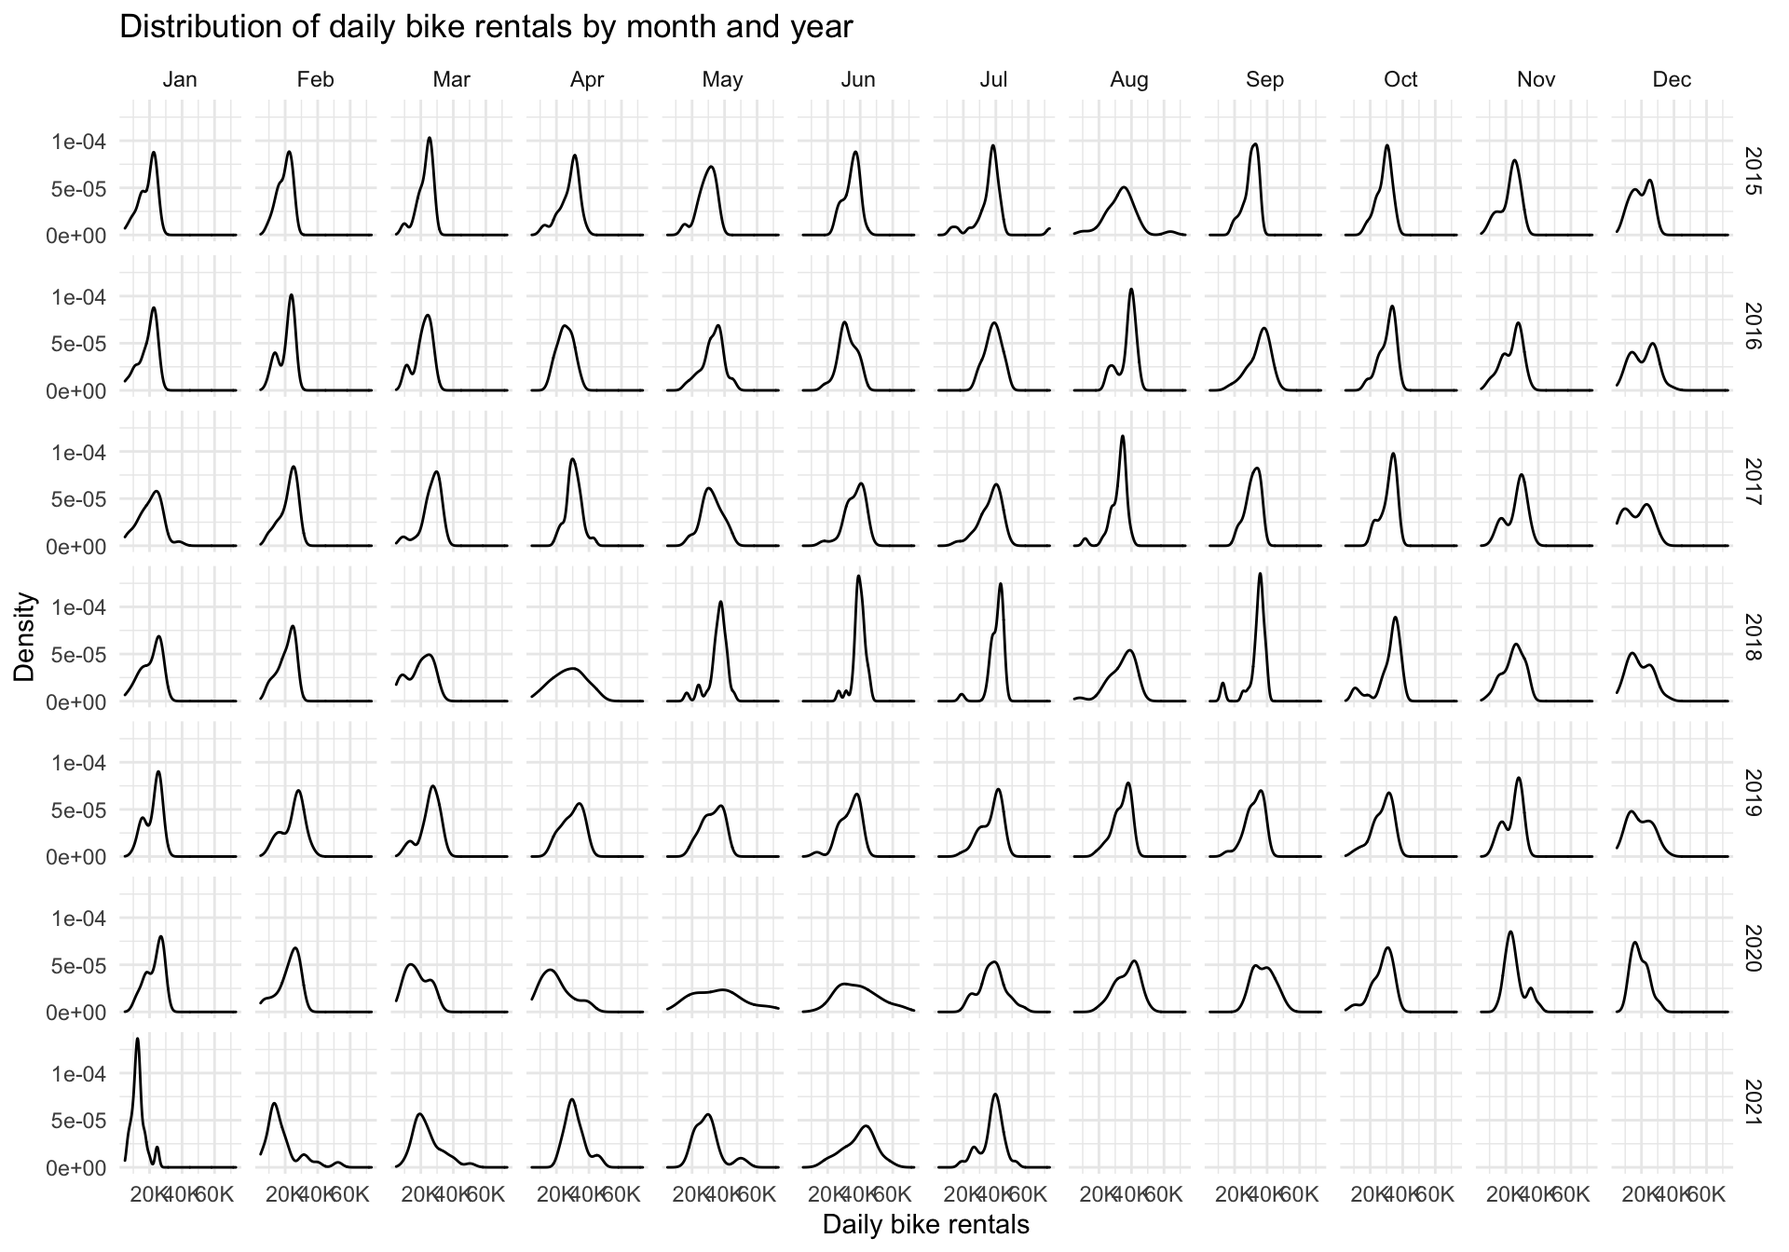
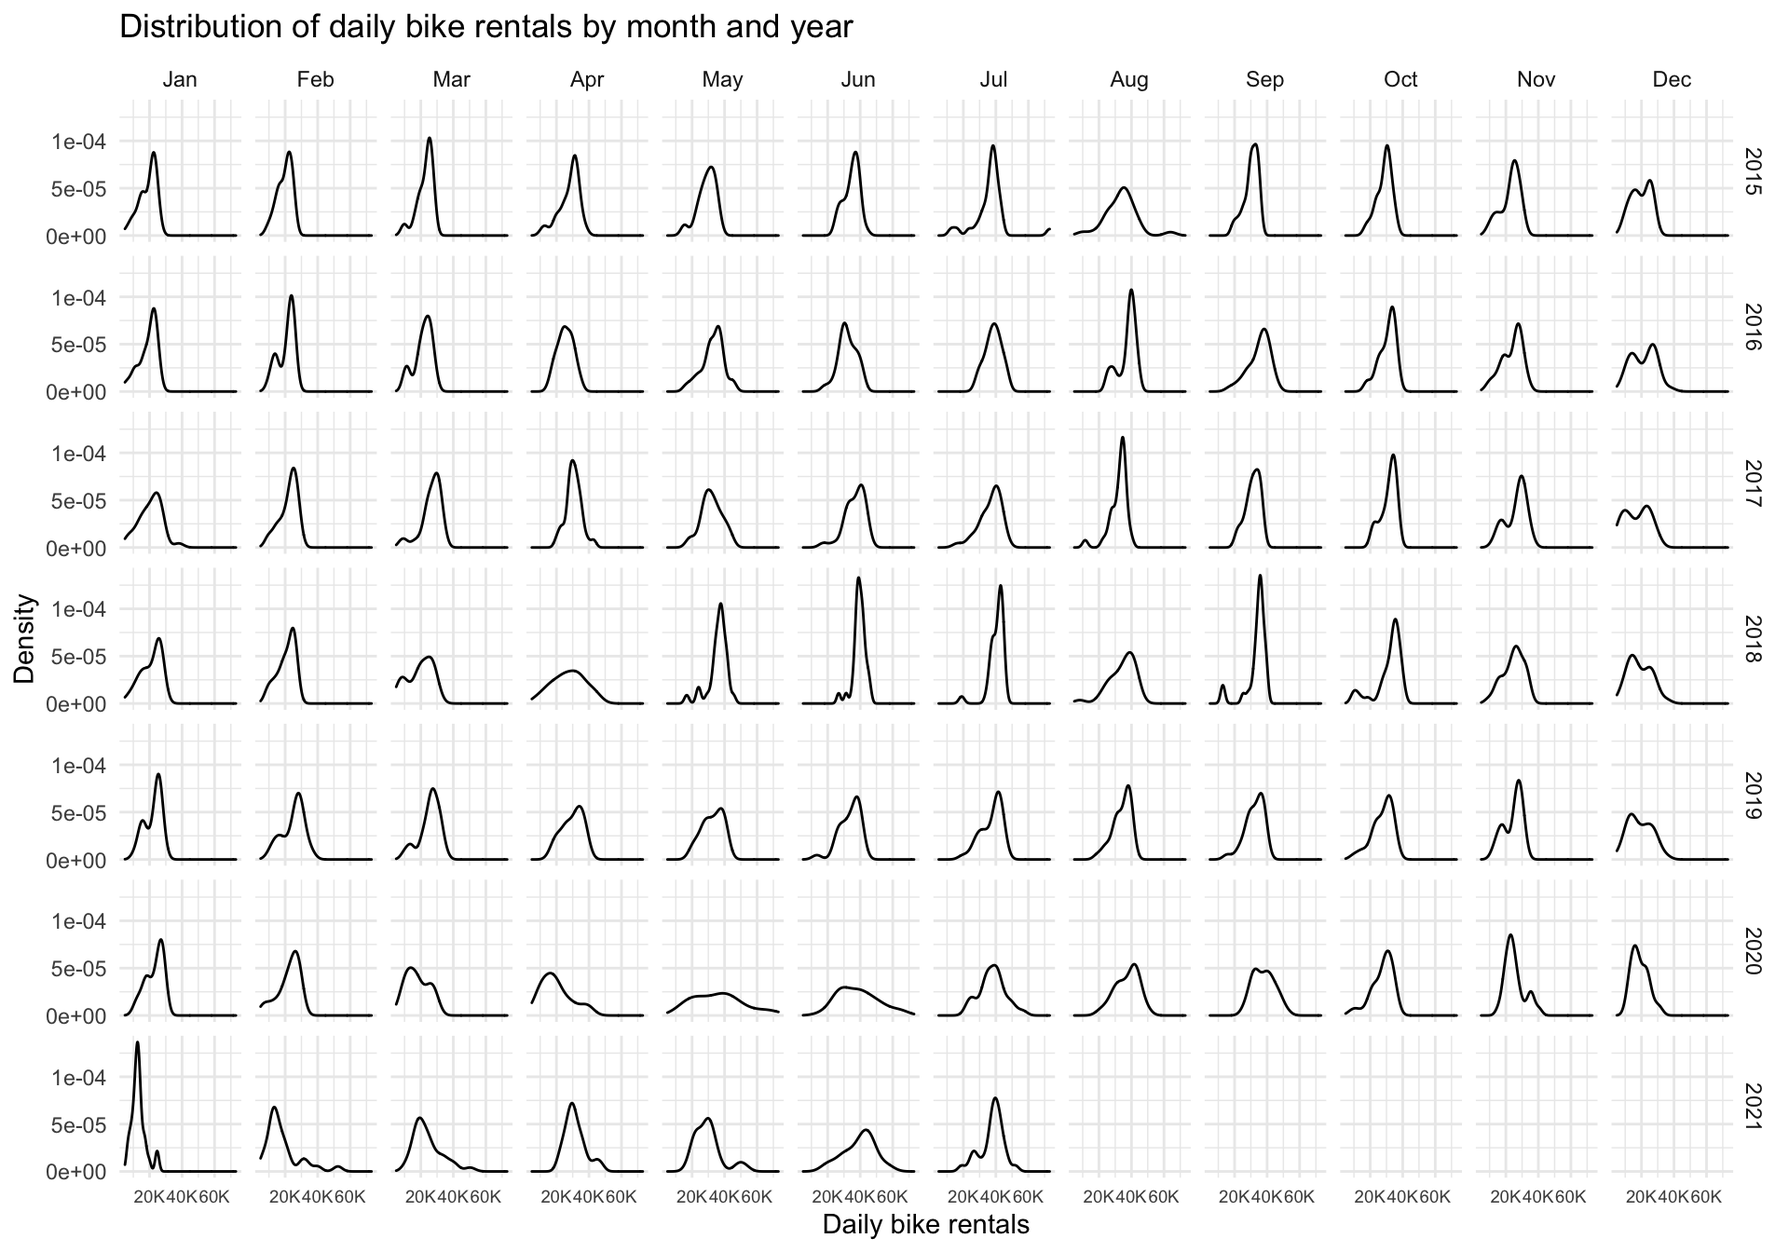
Finalizing blogs

diff --git a/content/blogs/GGplot.html b/content/blogs/GGplot.html
@@ -17,15 +17,15 @@ title: ggplot2
 <div id="introduction" class="section level1">
 <h1>Introduction</h1>
 <p>When it comes to analyzing data, <code>ggplot</code> is one of the most powerful packages. It is used for generating graphs and visualizing trends. A multitude of different graphs is readily available and easily customizable within the <code>ggplot</code> package.</p>
-<p>The <code>ggplot</code> package is part of the <code>tidyverse</code> library and is automatically included when loading <code>tidyverse</code>. However it can also separately be called using <code>library(ggplot2)</code>.</p>
-<p>In the following sections, I will provide a brief introduction to <code>ggplot</code> and the different types of graphs and customization it offers. Naturally, there are many more features it offers, but I will only provide a basic overview of its use cases. For more details, please visit <a href="https://ggplot2.tidyverse.org/index.html">ggplot2</a> </p>
+<p>The <code>ggplot</code> package is part of the <code>tidyverse</code> library and is automatically included when loading <code>tidyverse</code>. However, it can also separately be called using <code>library(ggplot2)</code>.</p>
+<p>In the following sections, I will provide a brief introduction to <code>ggplot</code> and the different types of graphs and customization it offers. Naturally, there are many more features to it, but I will only provide a basic overview of its use cases. For more details, please visit <a href="https://ggplot2.tidyverse.org/index.html">ggplot2</a>. </p>
 <div id="general-setup" class="section level2">
 <h2>General Setup</h2>
-<p>Before choosing the type of graph you want the data to be displayed in, you have to initiate <code>ggplot</code> by calling <code>ggplot()</code> and providing the so-called aesthetics, which specify values on x-axis and y-axis. </p>
-<p><strong>Note:</strong> Some charts don’t require a y-value, as they provide distributions of only one specific variable. </p>
+<p>Before choosing the type of graph you want the data to be displayed in, you have to initiate <code>ggplot</code> by calling <code>ggplot()</code> and providing the so-called aesthetics, which specify values on x-axis and y-axis. 
+<strong>Note:</strong> Some charts don’t require a y-value, as they provide distributions of only one specific variable. </p>
 <p>Aesthetics also provide the opportunity to color or size items according to specific characteristics. </p>
 <p>The initiation of <code>ggplot</code> itself doesn’t provide any output. By adding more functions we can add points, lines, etc. to the graph.</p>
-<p>The basic initiation looks the following way: <code>ggplot(data, aes(x=x-variable, y = y-variable))</code></p>
+<p>The basic initiation looks the following way: <code>ggplot(data, aes(x = x-variable, y = y-variable))</code></p>
 </div>
 <div id="scatter-plot" class="section level2">
 <h2>Scatter Plot</h2>
@@ -50,9 +50,9 @@ ggplot(data_employees, aes(x=experience, y=salary))+
   )</code></pre>
 <p><img src="/blogs/GGplot_files/figure-html/scatter_plot2%20experience%20vs.%20salary-1.png" width="768" /></p>
 <p>This looks already better, but we can tune the graphs even further by adding additional arguments and functions. 
-To be able to make better inferences, we can add a trend line by adding the function <code>geom_smooth(method=lm)</code>. The geom_smooth function usually returns a grey background in addition to the trendline which represents the confidence interval. By adding the argument <code>se=FALSE</code>, it can be turned off. 
+To be able to make better inferences, we can add a trend line by adding the function <code>geom_smooth(method=lm)</code>. The geom_smooth function usually returns a grey background in addition to the trendline which represents the confidence interval. By adding the argument <code>se=FALSE</code>, it can be turned off.<br />
 Or we could color the points according to the gender of the employee by including the argument <code>color = gender</code> in the ggplot initialization.</p>
-<p>Let’s see what it would a scatter plot would look like with a trendline and color according to gender:</p>
+<p>Let’s see what a scatter plot would look like with a trendline and color according to gender:</p>
 <pre class="r"><code>ggplot(data_employees, aes(x=experience, y=salary, color=gender))+
   #Add geom_point
   geom_point()+
@@ -84,9 +84,9 @@ Or we could color the points according to the gender of the employee by includin
 </div>
 <div id="line-chart" class="section level2">
 <h2>Line Chart</h2>
-<p>Line charts connect values in the order of x-axis values. This can be very helpful when plotting data over time, like stock prices or comparing values across month. </p>
-<p>When using line charts, it is very important to think about the <code>group</code> argument in the <code>ggplot</code> aesthetics, which requires input to a variable for which a value can only occur once. By that I mean, when mapping values across years, days or months will occur multiple times in the dataset and <code>geom_line</code> will have a hard time connecting the dots. Therefore, we need to tell <code>geom_line</code> a grouping so it connects the dots separately for each year.
-In this case, we don’t require a grouping, as every value is unique. However, we still need to specify the group variable by simply putting <code>group=1</code>, which tells <code>ggplot</code> that no grouping is required.</p>
+<p>Line charts connect values in the order of x-axis values. This can be very helpful when plotting data over time, like stock prices or comparing values across months. </p>
+<p>When using line charts, it is very important to think about the <code>group</code> argument in the <code>ggplot</code> aesthetics, which requires input to a variable for which a value can only occur once. By that I mean, when mapping values across years, days or months will occur multiple times in the dataset and <code>geom_line</code> will have a hard time connecting the dots. Therefore, we need to tell <code>geom_line</code> a grouping, so it connects the dots separately for each year.</p>
+<p>In the following example, we don’t require a grouping, as every value is unique. However, we still need to specify the group variable by simply putting <code>group=1</code>, which tells <code>ggplot</code> that no grouping is required.</p>
 <p>Let’s assume we have data for bike rentals in London and want to have a look at the average number of rentals per month between 2016 and 2019. In the following section, we will draw a line chart that will display the average rentals per month, computed by using data from 2016 to 2019.</p>
 <pre class="r"><code>#Compute expected average bike rentals in each month
 exp_bikes_per_month &lt;- bike %&gt;%
@@ -102,12 +102,12 @@ ggplot(exp_bikes_per_month, aes(x=month, y=monthly_average, group=1)) +
   geom_line()+
   #Add titles
   labs(
-    title = &quot;Monthly average bike rentals in London&quot;,
+    title = &quot;Average daily bike rentals in London&quot;,
     x = &quot;Month&quot;,
-    y = &quot;Average bike rentals&quot;
+    y = &quot;Average daily bike rentals&quot;
   )</code></pre>
-<p><img src="/blogs/GGplot_files/figure-html/average%20bike%20rentals%20per%20month-1.png" width="768" /></p>
-<p>The graph shows us that most bikes are rented in July with more than 37500 bikes, on average, in one month.</p>
+<p><img src="/blogs/GGplot_files/figure-html/average%20bike%20rentals%20per%20day%20by%20month-1.png" width="768" /></p>
+<p>The graph shows us that most bikes are rented in July with more than 37,500 bikes, on average, rented per day.</p>
 </div>
 <div id="bar-chart" class="section level2">
 <h2>Bar Chart</h2>
@@ -132,8 +132,8 @@ ggplot(data_employees_average, aes(x=gender, y=average_salary))+
     y = &quot;Salary (in USD)&quot;
   )</code></pre>
 <p><img src="/blogs/GGplot_files/figure-html/bar%20chart%20gender%20and%20mean%20salary-1.png" width="768" /></p>
-<p>If we want, we could also color the bars according to the gender to make it more visual, even though it might not necessarily provide further insights. Naturally, a legend will be created when applying the <code>fill</code>argument to color the bars, but in a bar chart that display the categorical variables on the x-axis, it might be a good idea to remove the legend by adding <code>theme(legend.position = "none")</code>. </p>
-<p>The <code>theme</code>function is generally a very strong function to modify graphs, so if you are interested into fine-tuning graphs have a look at it <a href="https://ggplot2.tidyverse.org/reference/theme.html">theme</a>.</p>
+<p>If we want, we could also color the bars according to the gender to make it more visual, even though it might not necessarily provide further insights. Naturally, a legend will be created when applying the <code>fill</code>argument to color the bars, but in a bar chart that displays the categorical variables on the x-axis, it might be a good idea to remove the legend by adding <code>theme(legend.position = "none")</code>. </p>
+<p>The <code>theme</code>function is generally a very strong function to modify graphs, so if you are interested into further fine-tuning graphs have a look at <a href="https://ggplot2.tidyverse.org/reference/theme.html">theme</a>.</p>
 <p>Going back to the bar chart, let’s have a quick look at a colored version:</p>
 <pre class="r"><code>#Initialize ggplot
 ggplot(data_employees_average, aes(x=gender, y=average_salary, fill = gender))+
@@ -148,7 +148,7 @@ ggplot(data_employees_average, aes(x=gender, y=average_salary, fill = gender))+
   #Hide legend
   theme(legend.position = &quot;none&quot;)</code></pre>
 <p><img src="/blogs/GGplot_files/figure-html/colored%20bar%20chart-1.png" width="768" /></p>
-<p>Now that bar charts with x- and y-variables have been addressed, let’s have a look at bar charts that only take a look at one variable and display the number of occurences of that variable. The easieast example is to look at the distribution of gender.</p>
+<p>Now that bar charts with x- and y-variables have been addressed, let’s have a look at bar charts that only take a look at one variable and display the number of occurences of that variable. The easiest example is to look at the distribution of gender.</p>
 <pre class="r"><code>#Initialize ggplot
 ggplot(data_employees, aes(x=gender))+
   #Specify bar chart. The width of columns can be changed by providing the &quot;width&quot; argument
@@ -216,6 +216,7 @@ ggplot(data_employees, aes(x=gender, y=salary))+
 <h2>Ribbon Plots</h2>
 <p>Ribbon plots draw areas rather than a point or a straight line. This can be very useful if we want to get a feeling for differences among curves or generall of an interval of values.</p>
 <p>If we recall the monthly bike rentals that we looke at in the <code>geom_line</code> section, we can make this graph even more sophisticaed. We could look at how much the monthly bike rentals deviate from the average over the past few years. In that case, we could use <code>geom_ribbon</code> to color the difference between the average monthly rentals and the actual rentals in that month.</p>
+<p><strong>Note:</strong> This is a more sophisticated analysis that required data preparation. In addition, several elements, such as <code>theme</code>have been added for visualization purposes. The full analysis can be found here: <a href="https://ferdinand-wohlenberg-portfolio.netlify.app/blogs/bikerental/">Effect of Covid-19 on Bike Rentals</a></p>
 <pre class="r"><code>#Compute expected average bike rentals in each month
 exp_bikes_per_month &lt;- bike %&gt;%
   filter(year %in% 2016:2019) %&gt;%

diff --git a/content/blogs/Bike_rental.html b/content/blogs/Bike_rental.html
@@ -55,7 +55,8 @@ ggplot(aes(x=bikes_hired))+
     title = &quot;Distribution of daily bike rentals by month and year&quot;,
     x = &quot;Daily bike rentals&quot;,
     y = &quot;Density&quot;
-  )</code></pre>
+  )+
+  theme(axis.text.x = element_text(size = 7))</code></pre>
 <p><img src="/blogs/Bike_rental_files/figure-html/plot%20bike%20rentals%20by%20month%20and%20year-1.png" width="960" /></p>
 <p>Looking at the graph, it can be observed that curves are flattening between March and June 2020 compared to previous years, implying larger variances in the number of bikes rented on a given day. In early 2020 Covid-19 hit the world and the first wave of infections arrived around March and April 2020. As previously mentioned, people were put in an unprecedented situation with living through a pandemic. Many people were afraid to go out, in fear of catching the virus, the consequences of which have not yet been fully researched.<br />
 People have lost their daily rhythm by being locked in and working remotely. In previous years, the curve was pretty steep and peaked at around 30k or 40k bikes rented per day, as people probably used them to get to work, but during the first Covid wave that has changed. People used bikes more infrequently and therefore flattening the distribution.
@@ -78,9 +79,8 @@ actual_bikes_per_month &lt;- bike %&gt;%
   group_by(year, month) %&gt;%
   summarize(
     act_monthly_average = mean(bikes_hired)
-  )</code></pre>
-<pre><code>## `summarise()` has grouped output by &#39;year&#39;. You can override using the `.groups` argument.</code></pre>
-<pre class="r"><code>#Merge actual and expected bike rental in one dataframe
+  )
+#Merge actual and expected bike rental in one dataframe
 bikes_per_month &lt;- 
   left_join(actual_bikes_per_month, exp_bikes_per_month, by=&quot;month&quot;)
 
@@ -118,10 +118,10 @@ shown in blue and calculated between 2016-2019&quot;,
         plot.caption = element_text(size=8),
         strip.text = element_text(size=8)
         )</code></pre>
-<p><img src="/blogs/Bike_rental_files/figure-html/Monthly%20changes%20in%20TfL%20bike%20rentals-1.png" width="1152" />
-The graph display the average daily bike rentals by month measured between 2016 and 2019 as the blue line, and the actual average daily bike rentals for each month using the black line. Whenever the actual values are higher than the 2016-2019 average, the area between the two curves is colored green. When the actual value is below the 2016-2019 average, the area is colored red. </p>
-<p>Jumping straight to 2020, we can actually discover that bike rentals were much lower during the first Covid-19 wave than the average monthly bike rental measured between 2016 and 2019. This finding conforms with the flatter distribution curve. However, in May bike rentals started picking up pace and were higher than the average from previous years. This is interesting, as distribution curves were really flat in May and June 2020, but people were actually using the bikes despite the pandemic. An explanation for this could have been people not wanting to use the Tube and therefore deciding to stay at the fresh air and use a bike instead. </p>
-<p>However, looking at 2021, bike rentals in May and June were lower than the average, which can be lead back to the lockdown the United Kingdom was experiencing.</p>
+<p><img src="/blogs/Bike_rental_files/figure-html/Monthly%20changes%20in%20TfL%20bike%20rentals-1.png" width="1152" /></p>
+<p>The graph display the average daily bike rentals by month measured between 2016 and 2019 as the blue line, and the actual average daily bike rentals for each month using the black line. Whenever the actual values are higher than the 2016-2019 average, the area between the two curves is colored green. When the actual value is below the 2016-2019 average, the area is colored red. </p>
+<p>Jumping straight to 2020, we can actually discover that bike rentals were much lower during the first Covid-19 wave than the average monthly bike rental measured between 2016 and 2019. However, in May bike rentals started picking up pace and were higher than the average from previous years. This is interesting, as distribution curves were really flat in May and June 2020, but people were actually using the bikes despite the pandemic. An explanation for this could have been people not wanting to use the Tube and therefore deciding to stay at the fresh air and use a bike instead. </p>
+<p>However, looking at 2021, bike rentals in May and June were lower than the measured average between 2016 and 2019, which can be led back to the lockdown the United Kingdom was experiencing.</p>
 <p>This data analysis was conducted on a month basis, but we can dig even deeper by having a look at weekly values. Let’s do a similar analysis to before, but this time we will visualize the deviation (%) of average daily bike rentals by week from the weekly averages measured between 2016 and 2019. </p>
 </div>
 <div id="weekly-changes-in-tfl-bike-rentals" class="section level2">
@@ -140,9 +140,9 @@ actual_bikes_per_week &lt;- bike %&gt;%
   group_by(week,year) %&gt;%
   summarize(
     act_weekly_average = mean(bikes_hired)
-  )</code></pre>
-<pre><code>## `summarise()` has grouped output by &#39;week&#39;. You can override using the `.groups` argument.</code></pre>
-<pre class="r"><code>#Merge actual and expected bike rental in one dataframe
+  )
+
+#Merge actual and expected bike rental in one dataframe
 bikes_per_week &lt;- 
   left_join(actual_bikes_per_week, exp_bikes_per_week, by=&quot;week&quot;)
 
@@ -155,6 +155,7 @@ bikes_per_week &lt;- bikes_per_week %&gt;%
     up = if_else(excess_rentals&gt;0, excess_rentals,0),
     down = if_else(excess_rentals &lt; 0, excess_rentals,0)
   )
+
 #Plot graph
 ggplot(bikes_per_week,aes(x=week))+
          geom_line(aes(y=excess_rentals), size=0.2)+
@@ -193,12 +194,12 @@ calculated between 2016-2019&quot;,
         strip.text = element_text(size=10)
         )</code></pre>
 <p><img src="/blogs/Bike_rental_files/figure-html/Weekly%20changes%20in%20TfL%20bike%20rentals-1.png" width="1152" />
-Jumping straight again to 2020, we can actually see that Covid-19 had a severe impact on bike rental. The first few weeks in 2020, where Covid first hit the population in the UK, bike rentals dropped tremendously, as shown by the red area around week 13. This agrees with the previously generated graph that displayed a reduction in bike rentals around March and April 2020. Then again, as seen in the previous graph, bike rentals increased around may (week 20) and went above the average bike rental from previous years.</p>
+Jumping straight again to 2020, we can actually see that Covid-19 had a severe impact on bike rental. The first few weeks in 2020, where Covid first hit the population in the UK, bike rentals dropped tremendously, as shown by the red area around week 13. This agrees with the previously generated graph that displayed a reduction in bike rentals around March and April 2020. Then again, as seen in the previous graph, bike rentals increased around May (week 20) and went above the average bike rental from previous years.</p>
 <p>Looking at 2021, the first 10 weeks of 2021 went quite bad for bike rental, probably due to another lockdown in the UK.</p>
 </div>
 <div id="summary-of-findings" class="section level2">
 <h2>Summary of findings</h2>
-<p>The Covid-19 pandemic definitely had its effect on bike rentals in London. When the first wave hit the UK, bike rentals went down by a lot, probably in fear of catching the virus and also the reduced need to use a bike to get to work. However, people quickly recovered from the initial fear and started using bikes after the first wave more than in the previous years. This could potentially be lead back to the fact that people didn’t want to use the subway, but rather stay at the fresh air with a bike, since the risk of catching the Covid virus is much lower.</p>
+<p>The Covid-19 pandemic definitely had its effect on bike rentals in London. When the first wave hit the UK, bike rentals went down by a lot, probably in fear of catching the virus and also the reduced need to use a bike to get to work. However, people quickly recovered from the initial fear and started using bikes after the first wave more than in the previous years. This could potentially be led back to the fact that people didn’t want to use the subway, but rather stay at the fresh air with a bike, since the risk of catching the Covid virus is much lower.</p>
 <p>It is generally very obvious that the deviation in daily bike rentals increased a lot since the pandemic, as people go into lockdowns, which reduces the number of rentals, but are overly enthusiastic when a lockdown ends and explore the city with bikes much more than before.</p>
 </div>
 </div>
